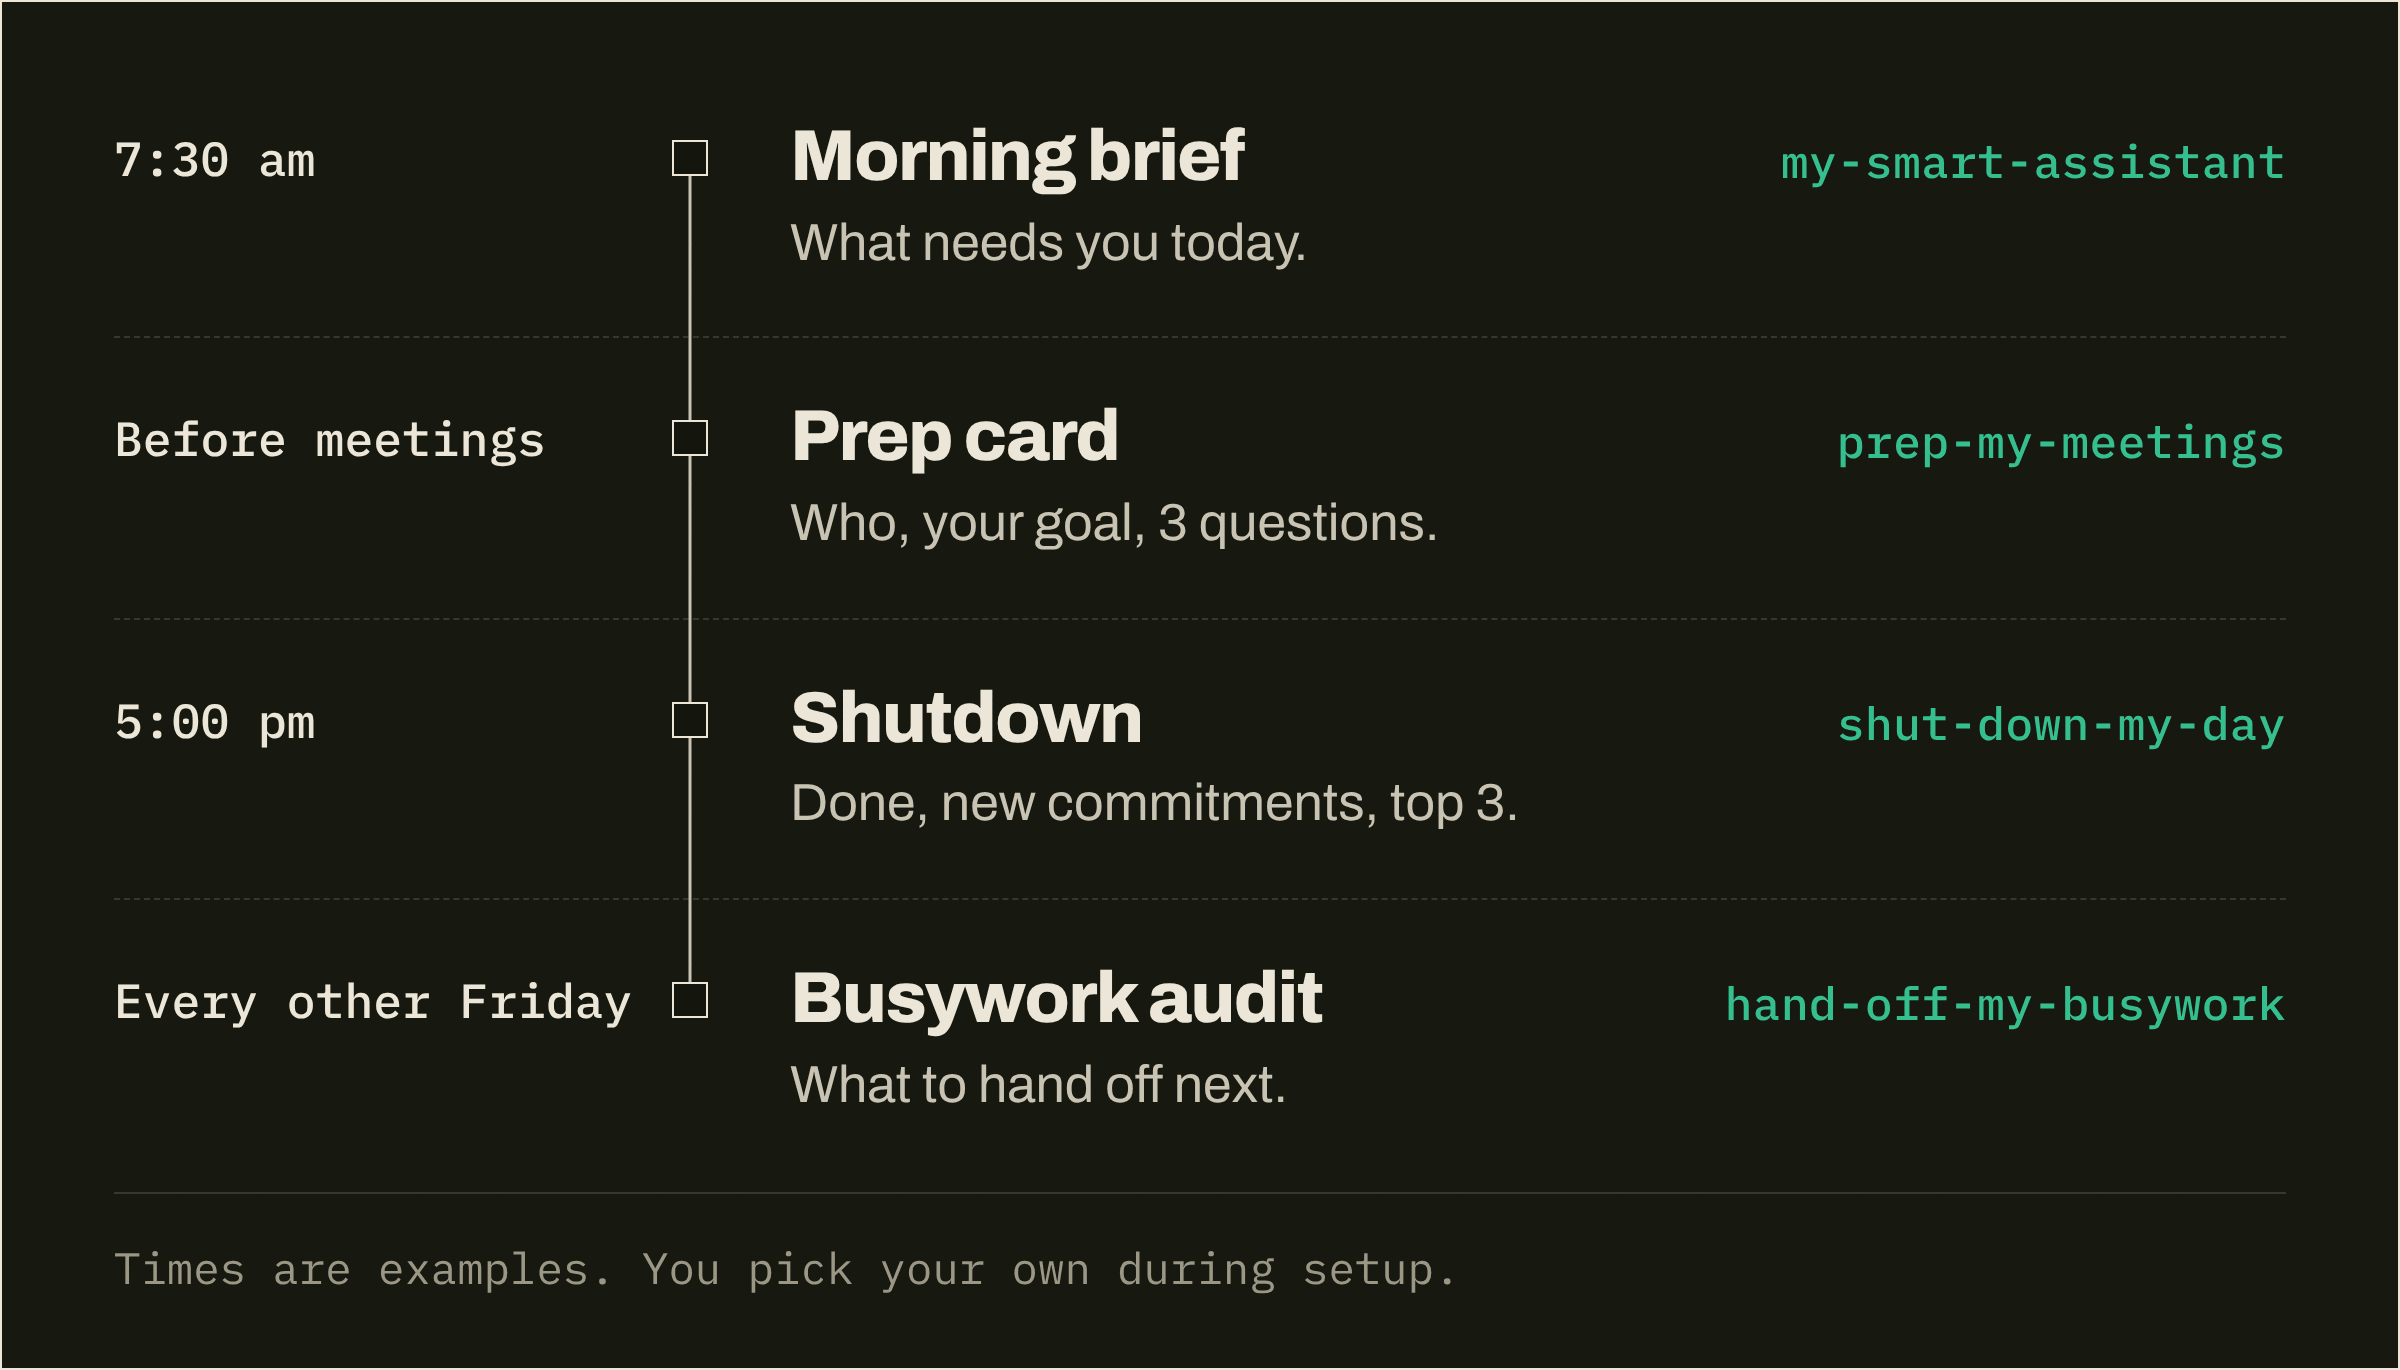
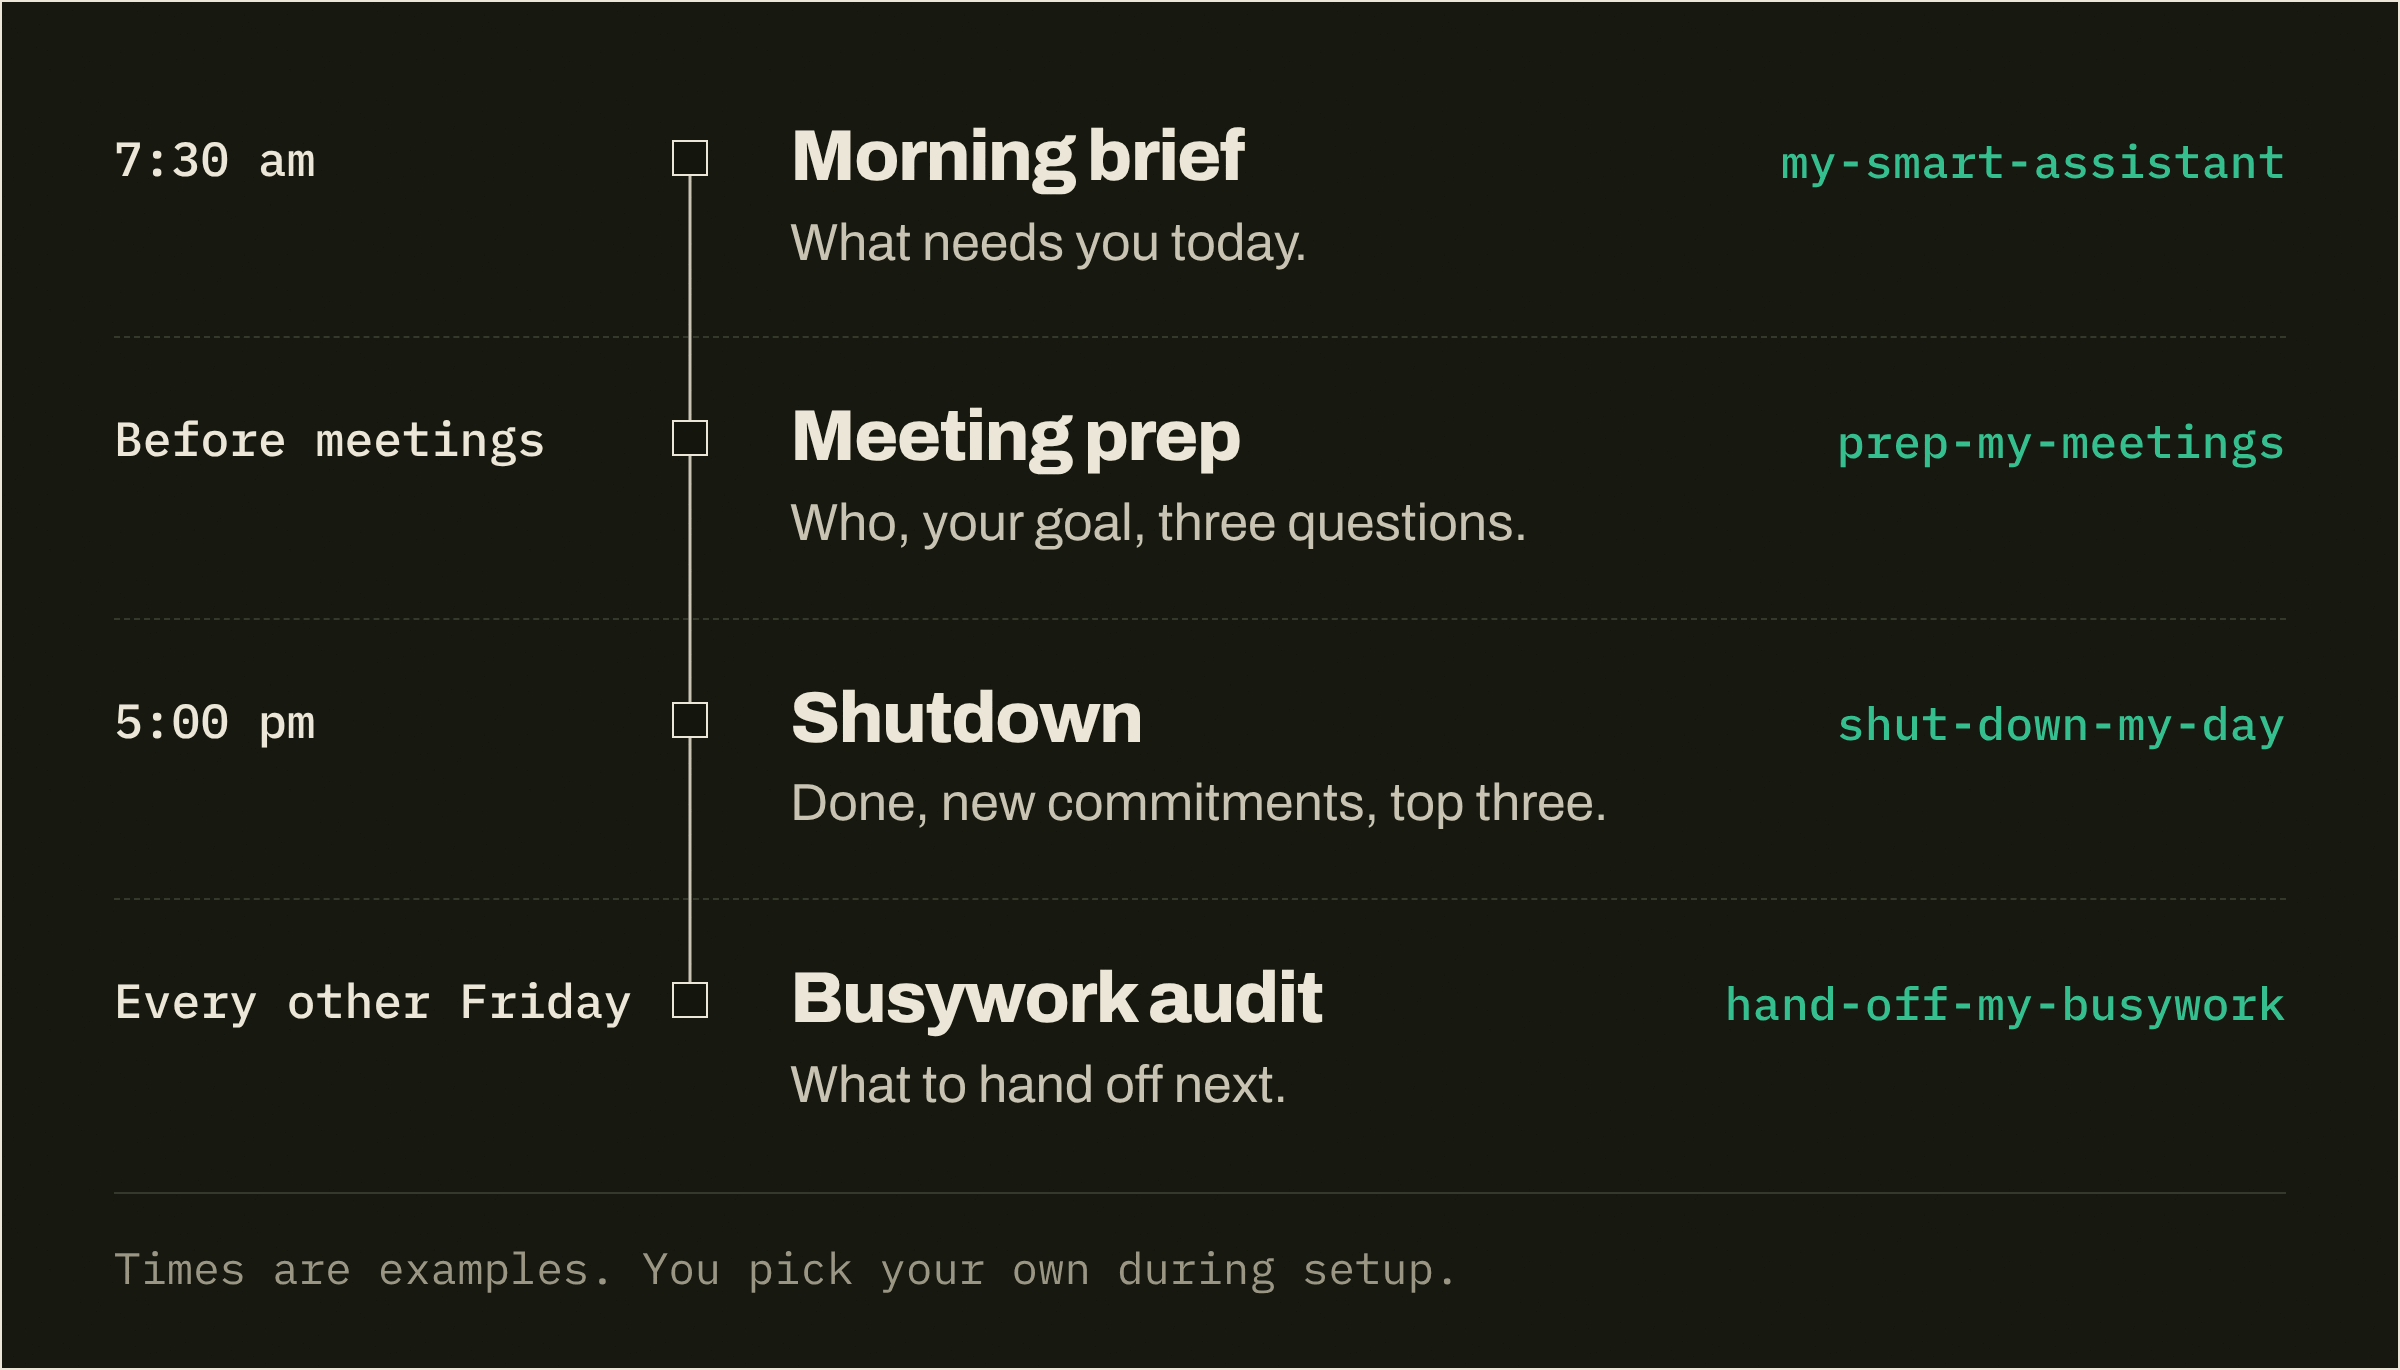
README: owner's one-line pitch, drop duplicate H1 and FAQ entry; graphic says Meeting prep
Use the same intro line as the site, remove the H1 that repeated the header
image, fold 'Something broke?' into the Help section, trim two taglines, and
match the helpers-day graphic to the helper names (Meeting prep, three
questions, top three).

Changed region(s): [[0.3125, 0.3066, 0.5312, 0.3679], [0.4688, 0.3679, 0.625, 0.3985], [0.625, 0.5825, 0.6562, 0.6131]]

diff --git a/docs/graphics/src/helpers-day.html b/docs/graphics/src/helpers-day.html
@@ -31,10 +31,10 @@
         <div class="what"><h3>Morning brief</h3><p>What needs you today.</p></div>
         <span class="slug">my-smart-assistant</span></li>
       <li><span class="when">Before meetings</span><span class="node"></span>
-        <div class="what"><h3>Prep card</h3><p>Who, your goal, 3&nbsp;questions.</p></div>
+        <div class="what"><h3>Meeting prep</h3><p>Who, your goal, three questions.</p></div>
         <span class="slug">prep-my-meetings</span></li>
       <li><span class="when">5:00 pm</span><span class="node"></span>
-        <div class="what"><h3>Shutdown</h3><p>Done, new commitments, top&nbsp;3.</p></div>
+        <div class="what"><h3>Shutdown</h3><p>Done, new commitments, top three.</p></div>
         <span class="slug">shut-down-my-day</span></li>
       <li><span class="when">Every other Friday</span><span class="node"></span>
         <div class="what"><h3>Busywork audit</h3><p>What to hand off next.</p></div>

diff --git a/README.md b/README.md
@@ -6,11 +6,11 @@
   </picture>
 </a>
 
-# Fewer prompts. More focus.
+One setup prompt that builds you an AI chief of staff: helpers that bring you what needs your attention, checked and short, so you stop typing "catch me up on everything" every morning.
 
-focus-engine is one setup prompt that builds your AI a set of helpers: a morning brief, meeting prep, an end-of-day shutdown and a busywork audit. They run on your schedule inside the AI tool you already use, read only what you connect, check every item against its source, and bring you only what needs you.
+The helpers are a morning brief, meeting prep, an end-of-day shutdown and a busywork audit. They run on your schedule inside the AI tool you already use, read only what you connect, and check every item against its source.
 
-You run it once. It checks what your AI tool and plan can do, interviews you (starting from what it already knows about you), writes the helpers you choose, test-drives them on your real data, and schedules them. After that you stop typing "catch me up on everything" every morning.
+You run it once. It checks what your AI tool and plan can do, interviews you (starting from what it already knows about you), writes the helpers you choose, test-drives them on your real data, and schedules them.
 
 Status: v0.1 beta. Free and open source (MIT).
 
@@ -36,10 +36,10 @@ Up to four helpers. You pick which ones run, when, and where they show up.
 <picture>
   <source media="(prefers-color-scheme: dark)" srcset="docs/images/helpers-day-dark.png">
   <source media="(prefers-color-scheme: light)" srcset="docs/images/helpers-day-light.png">
-  <img src="docs/images/helpers-day-light.png" width="800" alt="A day with focus-engine. 7:30 am, morning brief from my-smart-assistant: what needs you today. Before meetings, a prep card from prep-my-meetings: who, your goal, three questions. 5:00 pm, shutdown from shut-down-my-day: done, new commitments, top three. Every other Friday, busywork audit from hand-off-my-busywork: what to hand off next. Times are examples; you pick your own during setup.">
+  <img src="docs/images/helpers-day-light.png" width="800" alt="A day with focus-engine. 7:30 am, morning brief from my-smart-assistant: what needs you today. Before meetings, meeting prep from prep-my-meetings: who, your goal, three questions. 5:00 pm, shutdown from shut-down-my-day: done, new commitments, top three. Every other Friday, busywork audit from hand-off-my-busywork: what to hand off next. Times are examples; you pick your own during setup.">
 </picture>
 
-Every generated helper names your real sources, people, priorities, channel and times. Nothing generic ships: no placeholders, no sample text left behind.
+Every generated helper names your real sources, people, priorities, channel and times, with no placeholders or sample text left in.
 
 ## How it works
 
@@ -77,7 +77,7 @@ Each helper follows one shared run loop ([`templates/_shared/run-loop.md`](templ
 6. **Keep only what matters.** Actionable, relevant, accurate, not muted. Then the helper's item cap, most urgent first.
 7. **Deliver and write back.** To where you want it, then updates your Profile and moves each source's "read up to here" mark.
 
-**Verify** is the step that makes the rest worth reading. A stale item ("reply to Sam" when you already did) costs more trust than ten missed FYIs, so nothing reaches you without a check against the live source. Setup picks the strongest method your tool supports ([`templates/_shared/verification.md`](templates/_shared/verification.md)):
+**Verify** matters most. A stale item ("reply to Sam" when you already did) costs more trust than ten missed FYIs, so nothing reaches you without a check against the live source. Setup picks the strongest method your tool supports ([`templates/_shared/verification.md`](templates/_shared/verification.md)):
 
 - **Fresh-context checker.** A separate sub-agent that hasn't seen the draft gets only the item's source link and the claim ("waiting on your reply", "meeting at 2pm with A, B, C") and decides keep, drop or couldn't confirm. A second fresh context does the relevance pass, so the drafter never grades its own work.
 - **Separate re-check pass.** If sub-agents aren't available, the helper finishes drafting, then treats every item as unverified, re-opens each source and re-derives the claim from what the source says now.
@@ -205,9 +205,6 @@ Say it in the same tool. "Move my brief to 8" or "add meeting prep" changes thin
 
 **How do I give feedback?**
 Reply in one line, like `done 2, snooze 4 to Fri`. The next run applies it.
-
-**Something broke?**
-Ask in [Discussions](https://github.com/wa3401/focus-engine/discussions) or open an [issue](https://github.com/wa3401/focus-engine/issues/new/choose). Never paste real emails.
 
 ## Help
 
